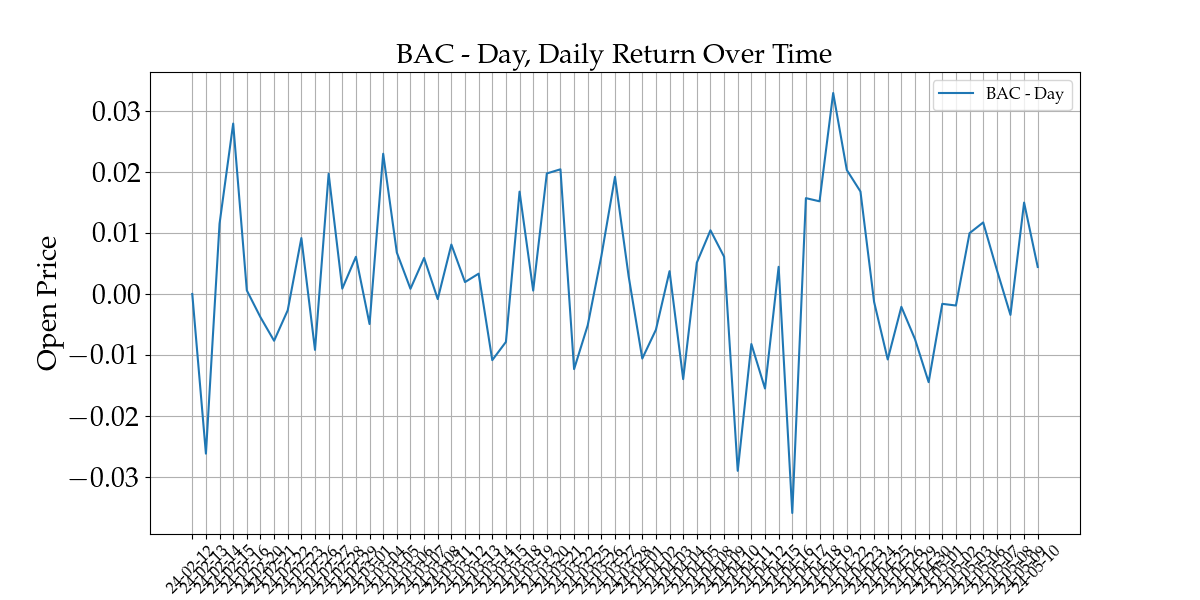
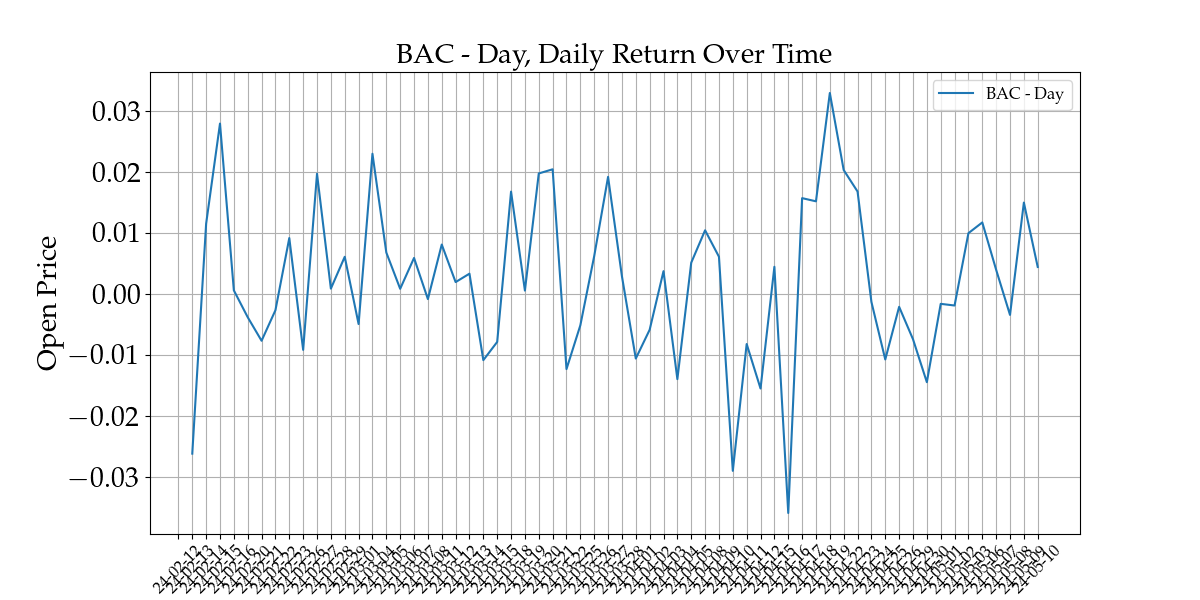
fix iterative updating GPR loop range bug
fix iterative updating GPR loop range bug

Changed region(s): [[0.1233, 0.12, 0.8633, 0.99]]

diff --git a/Multi-Input_GPR/main.py b/Multi-Input_GPR/main.py
@@ -403,7 +403,7 @@ class MultiInputGPR:
             for k1, k2 in self.kernel_combinations
         ]
 
-        for i in range(len(Y_AAPL_tf), len(Y_AAPL_full_tf) - 1):
+        for i in range(len(Y_AAPL_tf), len(Y_AAPL_full_tf)):
             #4. Train the model with the input data and the actual values of to-be-predicted stock data
             print(X_full[:i].shape[1])
             
@@ -442,7 +442,7 @@ class MultiInputGPR:
 
             f_means.append(f_mean[-1])
             f_vars.append(f_cov[-1])
-            actual_returns.append(Y_actual[i])
+            actual_returns.append(Y_actual[-1])
 
         # Return two-day predictions
         return [f_means, f_vars, actual_returns]
@@ -481,7 +481,7 @@ if __name__ == "__main__":
     portolio_assets = [ticker1, ticker2, ticker3, ticker4, ticker5]
 
     timeframes = ['d', 'w', 'm']
-    predict_Y = 'return'
+    predict_Y = 'daily_log_return'
     isLogReturn = False
     if predict_Y == 'daily_log_return':
         isLogReturn = True

diff --git a/Multi-Input_GPR/utils/data_handler.py b/Multi-Input_GPR/utils/data_handler.py
@@ -87,7 +87,6 @@ class DataHandler:
         df.fillna({'return': first_return}, inplace=True)
         df['intraday_return'] = (df['close'] - df['open']) / df['open']
         df['daily_log_return'] = np.log(df['close'] / df['close'].shift(1))
-        #df['daily_log_return'].fillna(0, inplace=True)
         df['daily_log_return'] = df['daily_log_return'].replace([np.inf, -np.inf], 0)
 
         ########################################
